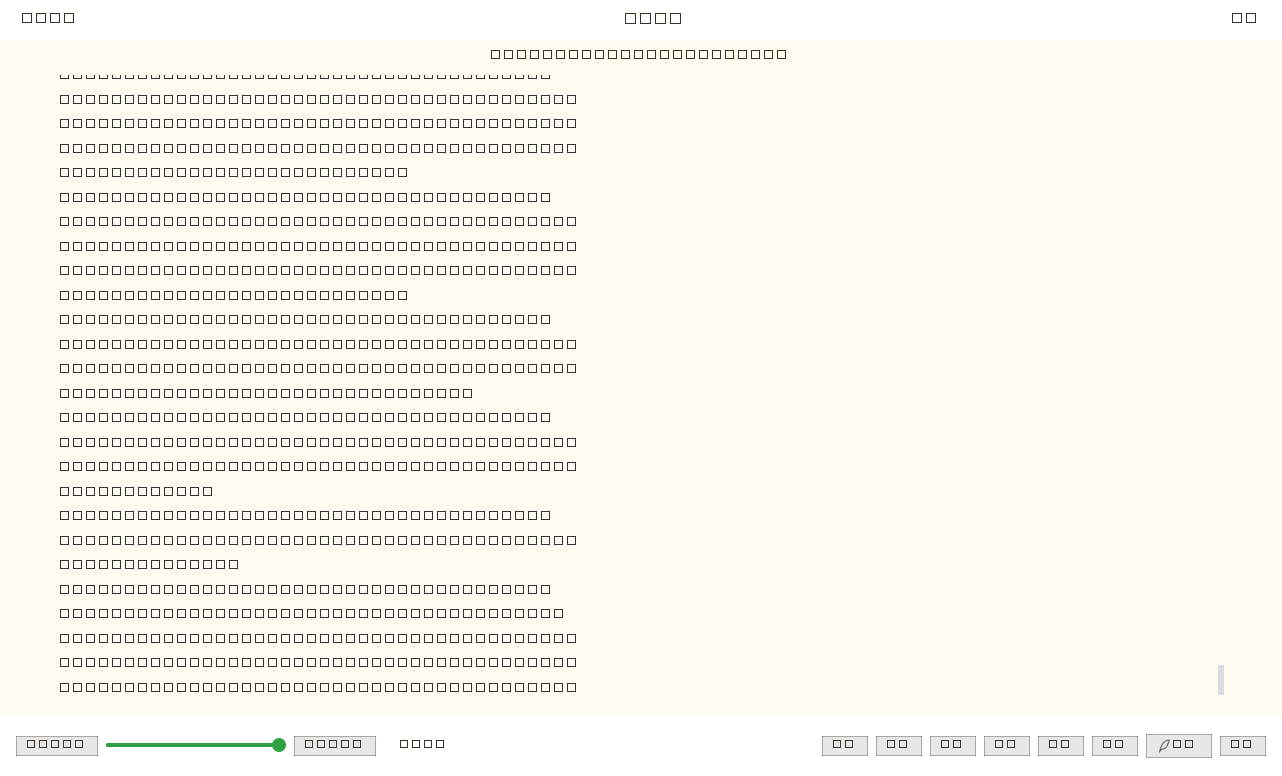
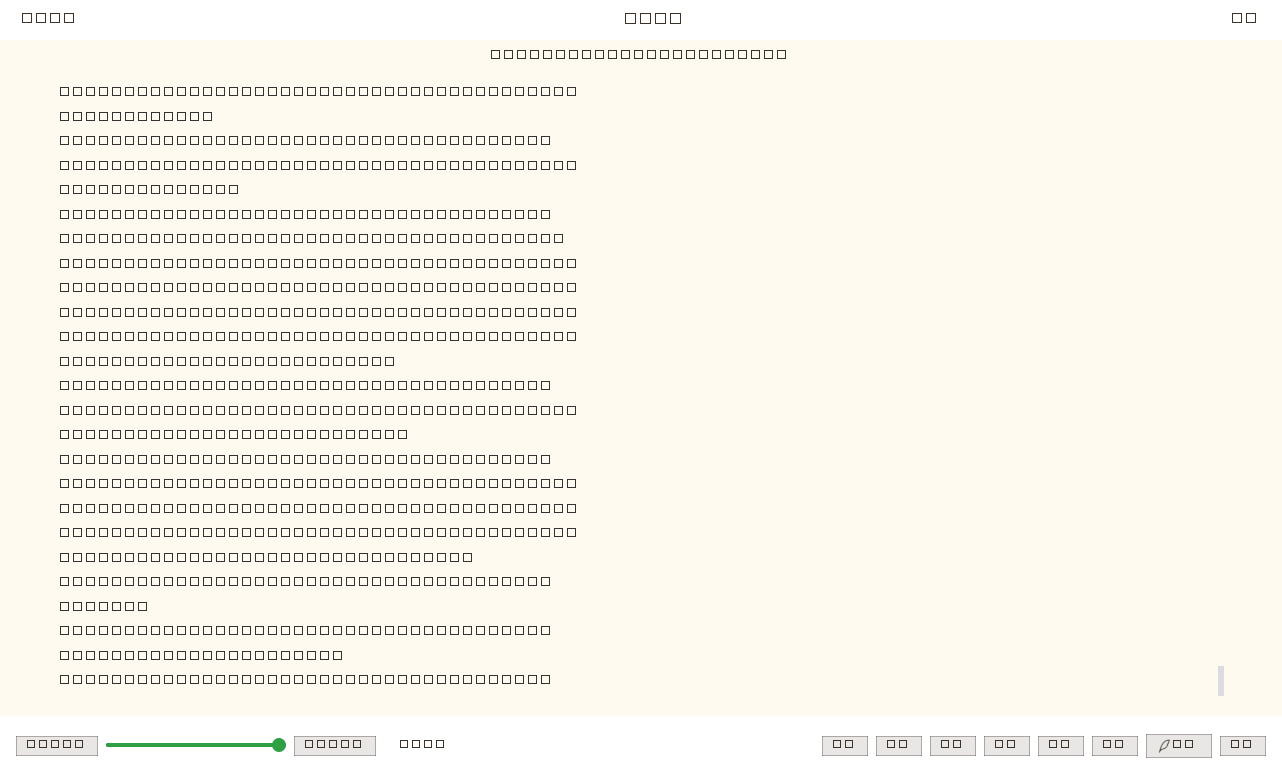
fix(reader): 浅色模式下书架背景不再透出深色页面堆栈

Changed region(s): [[0.0624, 0.0928, 0.4368, 0.8969]]

diff --git a/PureRefCanvas/mainwindow.cpp b/PureRefCanvas/mainwindow.cpp
@@ -2458,8 +2458,12 @@ void MainWindow::applyBgImage(const QString &path)
             m_canvasView->setStyleSheet("background: transparent; border: none;");
         }
     } else {
-        // Restore default solid backgrounds
-        m_stack->setStyleSheet("background: #1b2838; border: none;");
+        // Restore default solid backgrounds. Theme-aware: the stack sits
+        // BEHIND pages whose own background is transparent or failed to load
+        // (e.g. an undecodable reader-shelf image), so a hardcoded dark color
+        // would leak through in light mode.
+        m_stack->setStyleSheet(QString("background: %1; border: none;")
+                                   .arg(m_currentTheme == "light" ? "#f0f2f5" : "#1b2838"));
         for (int i = 0; i < m_stack->count(); ++i) {
             QWidget *page = m_stack->widget(i);
             if (page) page->setStyleSheet("");

diff --git a/_reader_test/mw_probe.cpp b/_reader_test/mw_probe.cpp
@@ -159,6 +159,13 @@ int main(int argc, char **argv)
             printf("  current-doc firstBlock lineWidth=%.1f\n", bn2.layout()->lineAt(0).width()); fflush(stdout);
         }
         reader->grab().save(QStringLiteral("C:/Users/LiyuYou/Desktop/Q/_reader_test/_after_resize.png"));
+        // Back to the shelf and grab it: verifies the shelf background follows
+        // the app theme (a broken/undecodable shelf image used to leave the
+        // page transparent, leaking the dark page-stack in light mode).
+        QMetaObject::invokeMethod(reader, "backToShelf");
+        for (int i = 0; i < 10; ++i) app.processEvents();
+        reader->grab().save(QStringLiteral("C:/Users/LiyuYou/Desktop/Q/_reader_test/_reader_shelf.png"));
+        printf("  shelf grabbed\n"); fflush(stdout);
     }
 
     // ===== Note workspace (笔记页) =====

diff --git a/PureRefCanvas/readerwidget.cpp b/PureRefCanvas/readerwidget.cpp
@@ -2279,7 +2279,12 @@ void ReaderWidget::applyTheme()
 void ReaderWidget::setShelfBackground(const QString &imagePath)
 {
     m_shelfBgPath = imagePath;
-    if (!imagePath.isEmpty() && QFile::exists(imagePath)) {
+    // Decode-check, not just existence: a file the current build can't decode
+    // (e.g. WebP without the qwebp imageformats plugin) would leave the page
+    // transparent, leaking the dark page-stack behind it in light mode.
+    const bool usable = !imagePath.isEmpty() && QFile::exists(imagePath)
+                        && !QImage(imagePath).isNull();
+    if (usable) {
         m_shelfPage->setStyleSheet(QString(
             "QWidget#shelfPage { border-image: url(%1) 0 0 0 0 stretch stretch; }"
         ).arg(imagePath));

diff --git a/PureRefCanvas/notewidget.cpp b/PureRefCanvas/notewidget.cpp
@@ -2412,7 +2412,10 @@ void NoteWidget::setEditorBackground(const QString &path)
     else
         settings.remove("note/editorBg");
 
-    if (!path.isEmpty() && QFile::exists(path)) {
+    // Decode-check (not just existence): an undecodable image (WebP without
+    // the qwebp plugin) would set a background-image that never paints,
+    // leaving the page transparent over the dark page-stack.
+    if (!path.isEmpty() && QFile::exists(path) && !QImage(path).isNull()) {
         // background-size: cover keeps aspect ratio (no stretching), unlike border-image
         m_editorPage->setStyleSheet(QString(
             "QWidget#noteEditorPage {"

diff --git a/_reader_test/readerwidget_test.cpp b/_reader_test/readerwidget_test.cpp
@@ -84,6 +84,9 @@ int main(int argc, char *argv[])
     const QString root = QStringLiteral("C:/Users/LiyuYou/Desktop/Q/_reader_test/scratch_bookshelf");
 
     // 1) Reading-time accounting unit checks (no widget needed).
+    // Wipe the scratch root first: the accounting fixture adds 120s "today",
+    // which would otherwise accumulate across same-day reruns (120→240…).
+    QDir(root).removeRecursively();
     if (int rc = testReadingTimeAccounting(root)) return rc;
 
     // This constructor triggers setupShelfPage() -> quickImportCard->setProperty()
